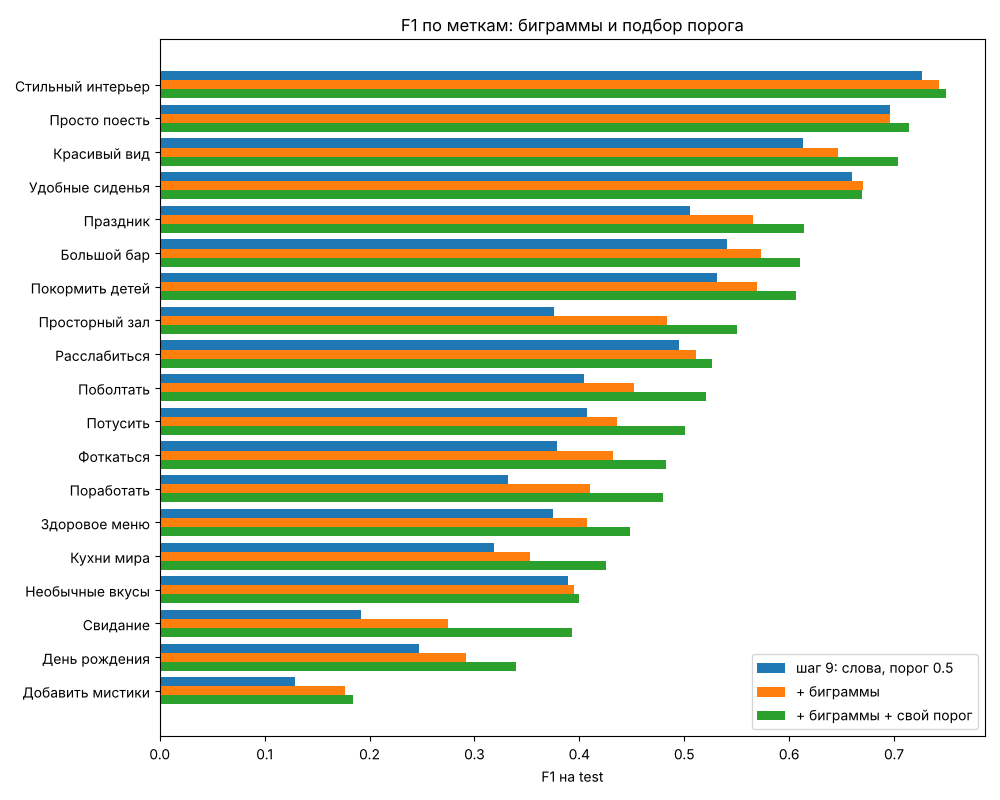
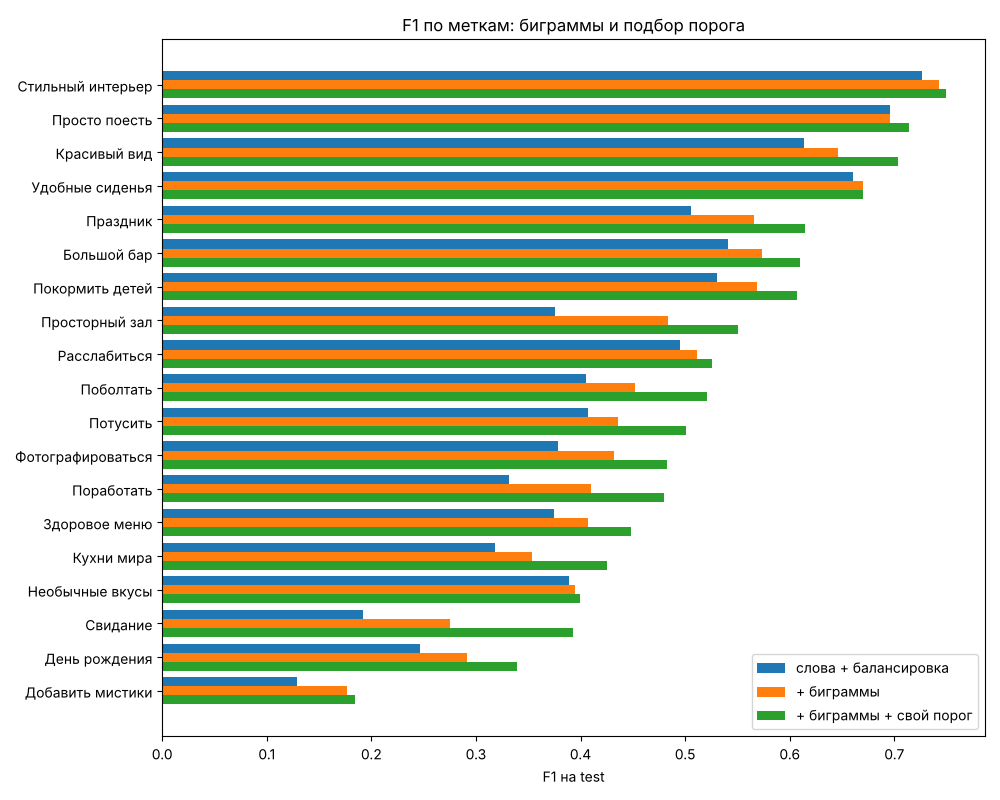
plots: write label 'Фотографироваться' in full on f1 chart and word cloud

diff --git a/step13_thresholds.py b/step13_thresholds.py
@@ -66,10 +66,12 @@ print("macro-F1 + биграммы + свои пороги:", round(result["F1 +
 # график: F1 по меткам для трёх вариантов
 y = np.arange(len(result))
 plt.figure(figsize=(10, 8))
-plt.barh(y - 0.27, result["F1 шаг 9"], height=0.27, label="шаг 9: слова, порог 0.5")
+plt.barh(y - 0.27, result["F1 шаг 9"], height=0.27, label="слова + балансировка")
 plt.barh(y, result["F1 +биграммы"], height=0.27, label="+ биграммы")
 plt.barh(y + 0.27, result["F1 +биграммы +порог"], height=0.27, label="+ биграммы + свой порог")
-plt.yticks(y, result["Метка"])
+# в данных метка называется "Фоткаться", на графике пишем полностью
+names = result["Метка"].replace({"Фоткаться": "Фотографироваться"})
+plt.yticks(y, names)
 plt.gca().invert_yaxis()
 plt.xlabel("F1 на test")
 plt.title("F1 по меткам: биграммы и подбор порога")

diff --git a/step14_wordcloud.py b/step14_wordcloud.py
@@ -41,7 +41,7 @@ cloud.generate_from_frequencies(weights)
 plt.figure(figsize=(10, 6.7))
 plt.imshow(cloud, interpolation="bilinear")
 plt.axis("off")
-plt.title(f"Слова, на которые опирается модель: «{label}»")
+plt.title(f"Слова, на которые опирается модель: «{label.replace('Фоткаться', 'Фотографироваться')}»")
 plt.tight_layout()
 out = "images/wordcloud.png"
 plt.savefig(out, dpi=150)
